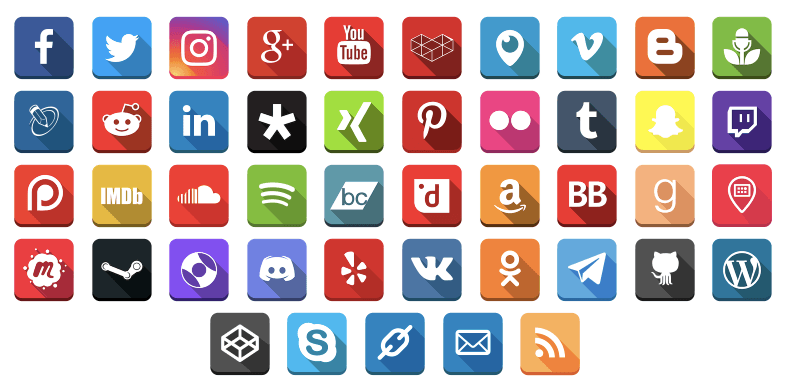
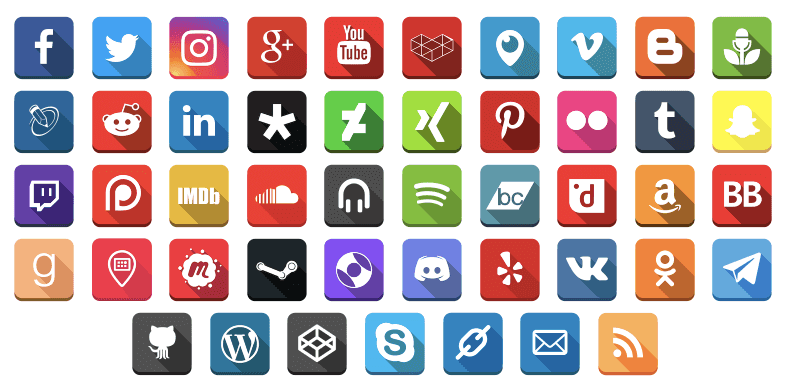
Posts updated

diff --git a/_posts/Arthur/Projects/en/plugins/2015-12-19-wp-plugin-social-media-buttons-toolbar.md b/_posts/Arthur/Projects/en/plugins/2015-12-19-wp-plugin-social-media-buttons-toolbar.md
@@ -30,6 +30,8 @@ tags:
   - google plus
   - google_plus
   - googleplus
+  - plug.dj
+  - plug dj
   - icon
   - icon set
   - iconset
@@ -113,6 +115,7 @@ It give you finer control over buttons. You can configure they on plugins settin
 * Patreon
 * IMDb
 * SoundCloud
+* Plug.dj
 * Spotify
 * Dloky
 * Goodreads
@@ -197,7 +200,7 @@ Commercial licensing (e.g. for projects that can’t use an open-source license)
 * The icon of plugin is a copyrighted image created by [Arthur Gareginyan](http://www.arthurgareginyan.com). (C) All rights reserved.
 * The banner of plugin is a copyrighted image created by [Arthur Gareginyan](http://www.arthurgareginyan.com). (C) All rights reserved.
 * The Entrepreneur image that used on banner is from [Pixabay](https://pixabay.com/en/entrepreneur-start-start-up-career-696976/) and licensed under the [Creative Commons CC0](https://creativecommons.org/publicdomain/zero/1.0/deed.en).
-* Icons [buzzsprout.png, periscope.png, youtube.png, meetvibe.png, beam.png, wordpress.png, twitter.png, imdb.png, dloky.png, snapchat.png, steam.png, discord.png, twitch.png, amazon.png, bookbub.png, goodreads.png, reddit.png, meetup.png, codepen.png, instagram.png, patreon.png, bandcamp.png, youtube-gaming.png, xing.png](https://www.iconfinder.com/iconsets/square-logo-buttons?ref=ArthurGareginyan) by [Arthur Gareginyan](http://www.arthurgareginyan.com) and licensed under the [Creative Commons (Attribution 3.0 Unported)](http://creativecommons.org/licenses/by/3.0/).
+* Icons [plugdj.png, buzzsprout.png, periscope.png, youtube.png, meetvibe.png, beam.png, wordpress.png, twitter.png, imdb.png, dloky.png, snapchat.png, steam.png, discord.png, twitch.png, amazon.png, bookbub.png, goodreads.png, reddit.png, meetup.png, codepen.png, instagram.png, patreon.png, bandcamp.png, youtube-gaming.png, xing.png](https://www.iconfinder.com/iconsets/square-logo-buttons?ref=ArthurGareginyan) by [Arthur Gareginyan](http://www.arthurgareginyan.com) and licensed under the [Creative Commons (Attribution 3.0 Unported)](http://creativecommons.org/licenses/by/3.0/).
 * Icons [facebook.png, flickr.png, google-plus.png, vimeo.png, blogger.png, linkedin.png, livejournal.png, pinterest.png, tumblr.png, soundcloud.png, spotify.png, yelp.png, vkontakte.png, odnoklassniki.png, telegram.png, github.png, skype.png, website.png, email.png, rss-feed.png](https://www.iconfinder.com/iconsets/social-buttons-2?ref=ArthurGareginyan) by Ivlichev Victor Petrovich and licensed under the [Creative Commons (Attribution 3.0 Unported)](http://creativecommons.org/licenses/by/3.0/).
 * [Bootstrap](http://getbootstrap.com) by Twitter, Inc. released under the [MIT license](https://github.com/twbs/bootstrap/blob/master/LICENSE).
 * [Bootstrap-checkbox](https://github.com/vsn4ik/bootstrap-checkbox) is a project of [Vasily A.](https://github.com/vsn4ik), shared under the [MIT license](https://github.com/vsn4ik/bootstrap-checkbox/blob/master/LICENSE).

diff --git a/_posts/Arthur/Projects/en/plugins/2016-02-27-wp-plugin-simple-scroll-to-top-button.md b/_posts/Arthur/Projects/en/plugins/2016-02-27-wp-plugin-simple-scroll-to-top-button.md
@@ -96,6 +96,7 @@ Also you don't need to edit any file of your theme, this plugin will do everythi
 * Symbol color changer (Unlimited colors)
 * Changeable button background and symbol
 * Changeable size of button
+* Changeable scroll duration
 * Option to enable/disable button
 * Option to display button in full website or in Home page only
 * Auto hide button on top of webpage
